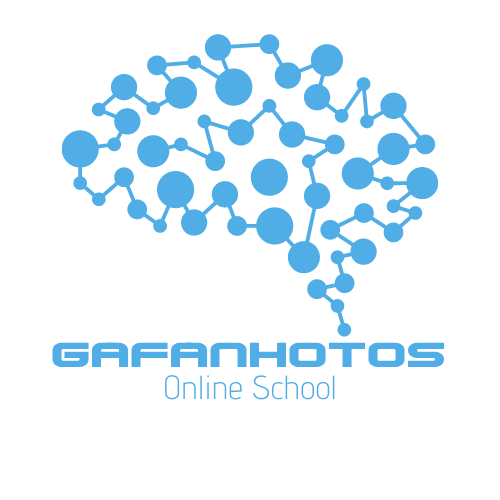
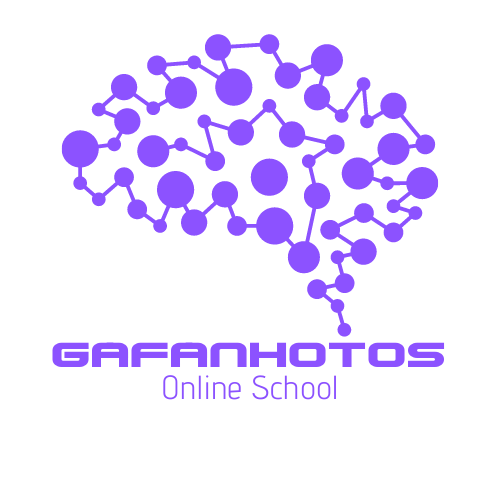
Router & Menu
Inserindo menu no header, rotas e telas de login e cadastro

Changed region(s): [[0.09, 0.06, 0.9, 0.81]]

diff --git a/frontend-school/src/app/views/home/home.component.html b/frontend-school/src/app/views/home/home.component.html
@@ -23,9 +23,9 @@
                 <div id="cursos-disponiveis">
                     <h3>Somos uma empresa focada no desenvolvimento de profissionais da área de <b>Tecnologia</b></h3>
                     <span>Oferecemos cursos das ferramentas mais requisitadas e da forma mais cômoda para você!</span>
-                    <span style="color: #51ADE5;"><b>Estude onde e quando quiser!</b></span>
+                    <span style="color: #673AB7; font-size: 20px; margin-top: 10px;"><b>Estude onde e quando quiser!</b></span>
                     <span
-                        style="margin-top: 15px; text-decoration: underline; text-decoration-color: #51ADE5; font-size: 17px;">Alguns dos nossos cursos disponíveis:</span>
+                        style="margin-top: 15px; text-decoration: underline; text-decoration-color: #673AB7; font-size: 17px;">Alguns dos nossos cursos disponíveis:</span>
                 </div>
                 <div id="imgs-container">
                     <div class="imgs" id="imgs-1">
@@ -45,7 +45,8 @@
         </div>
     </div>
     <div style="display: flex; align-items: center; justify-content: center; margin-top: 20px;">
-        <button type="button" class="btn btn-outline-info but-cadastro" style="height: 50px; width: 30%; margin: 20px 0;">Cadastre-se agora!</button>
+        <button mat-raised-button style="height: 40px; width: 30%; margin: 20px 0;" color="primary" routerLink="/signup">Cadastre-se agora!</button>
+        
     </div>
     
 </div>

diff --git a/frontend-school/src/app/components/template/header/header.component.css b/frontend-school/src/app/components/template/header/header.component.css
@@ -1,8 +1,10 @@
+@import url('https://fonts.googleapis.com/css2?family=Raleway:ital@1&display=swap');
+
 .header{
     display: flex;
     background-color: #100520;
     height: 85px;
-    border-bottom: solid 1px #52DBFF;
+    border-bottom: solid 1px #8C52FF;
     justify-content: space-between;
     align-items: center;
 }
@@ -12,8 +14,38 @@
     cursor: pointer;
 }
 
+#menu{
+    display: flex;
+    flex-direction: row;
+    align-items: center;
+    justify-content: center;
+    color: white;
+    height: 100%;
+}
+
+#menu div{
+    display: flex;
+    justify-content: center;
+    align-items: center;
+    padding: 0 15%;
+    transition: all ease 0.4s;
+    height: 100%;
+    vertical-align: middle;
+    cursor: pointer;
+}
+
+#menu div:hover{
+    background-color: #8C52FF;
+}
+
+.span-menu{
+    font-size: 19px;
+    color: white;
+    font-family: 'Raleway', sans-serif;
+}
+
 #headerspan{
-    color: #52DBFF;
+    color: #8C52FF;
     font-size: 24px;
     font-family: 'Franklin Gothic Medium', 'Arial Narrow', Arial, sans-serif,sans-serif;
 }

diff --git a/frontend-school/src/app/views/signup/signup.component.html b/frontend-school/src/app/views/signup/signup.component.html
@@ -1,0 +1,27 @@
+<div class='global'>
+    <div id="img-login">
+        <img src="/assets/login-img.jpg">
+    </div>
+    <div id="form-login">
+        <h2>Cadastre-se no mundo <b>Tech</b></h2>
+        <mat-form-field appearance="fill">
+            <mat-label>Nome completo</mat-label>
+            <input matInput type="text">
+        </mat-form-field>
+
+        <mat-form-field appearance="fill">
+            <mat-label>Email</mat-label>
+            <input matInput type="text">
+        </mat-form-field>
+        <mat-form-field appearance="fill">
+            <mat-label>Senha</mat-label>
+            <input matInput type="password">
+        </mat-form-field>
+        <mat-form-field appearance="fill">
+            <mat-label>Confirma senha</mat-label>
+            <input matInput type="password">
+        </mat-form-field>
+        <button mat-raised-button color="primary">Cadastrar</button>
+        <span>Já possui acesso? <b style="cursor: pointer;" routerLink="/login">Realize o login</b></span>
+    </div>
+</div>

diff --git a/frontend-school/src/app/app.module.ts b/frontend-school/src/app/app.module.ts
@@ -18,6 +18,7 @@ import { MatInputModule } from '@angular/material/input';
 import { MatFormFieldModule } from '@angular/material/form-field';
 import { MatButtonModule } from '@angular/material/button';
 import { MatCheckboxModule } from '@angular/material/checkbox';
+import { SignupComponent } from './views/signup/signup.component';
 
 @NgModule({
   declarations: [
@@ -26,7 +27,8 @@ import { MatCheckboxModule } from '@angular/material/checkbox';
     FooterComponent,
     NavComponent,
     HomeComponent,
-    LoginComponent
+    LoginComponent,
+    SignupComponent
   ],
   imports: [
     BrowserModule,

diff --git a/frontend-school/src/app/components/template/header/header.component.html b/frontend-school/src/app/components/template/header/header.component.html
@@ -1,7 +1,9 @@
 <mat-toolbar class="header">
     <img src="/assets/Gafanhotos School.png" class="headerimg" routerLink="/">
-    <div>
-
+    <div id="menu">
+        <div><span class="span-menu">Cursos</span></div>
+        <div><span class="span-menu">Quem somos</span></div>
+        <div><span class="span-menu">Contato</span></div>
     </div>
-    <button type="button" class="btn btn-outline-info" routerLink="/login">Login/Cadastro</button>
+    <button mat-raised-button color="primary" routerLink="/login">Login/cadastro</button>
 </mat-toolbar>

diff --git a/frontend-school/src/app/app-routing.module.ts b/frontend-school/src/app/app-routing.module.ts
@@ -2,6 +2,7 @@ import { NgModule } from '@angular/core';
 import { RouterModule, Routes } from '@angular/router';
 import { HomeComponent } from './views/home/home.component';
 import { LoginComponent } from './views/login/login.component';
+import { SignupComponent } from './views/signup/signup.component';
 
 const routes: Routes = [{
   path:"",
@@ -9,6 +10,9 @@ const routes: Routes = [{
 },{
   path:"login",
   component: LoginComponent,
+},{
+  path:"signup",
+  component: SignupComponent
 }
 ];
 

diff --git a/frontend-school/src/app/views/login/login.component.html b/frontend-school/src/app/views/login/login.component.html
@@ -15,6 +15,6 @@
         </mat-form-field>
         <span style=" margin-bottom: 17px; cursor: pointer;">Recuperar senha</span>
         <button mat-raised-button color="primary">Entrar</button>
-        <span>Sem acesso? <b style="cursor: pointer;">Cadastre-se agora!</b></span>
+        <span>Sem acesso? <b style="cursor: pointer;" routerLink="/signup">Cadastre-se agora!</b></span>
     </div>
 </div>

diff --git a/frontend-school/src/app/views/signup/signup.component.ts b/frontend-school/src/app/views/signup/signup.component.ts
@@ -1,0 +1,15 @@
+import { Component, OnInit } from '@angular/core';
+
+@Component({
+  selector: 'app-signup',
+  templateUrl: './signup.component.html',
+  styleUrls: ['./signup.component.css']
+})
+export class SignupComponent implements OnInit {
+
+  constructor() { }
+
+  ngOnInit(): void {
+  }
+
+}

diff --git a/frontend-school/src/app/views/home/home.component.css b/frontend-school/src/app/views/home/home.component.css
@@ -26,7 +26,7 @@
     font-family: sans-serif;
     margin-top: 30px;
     margin-bottom: 30px;
-    color: #51ADE5;
+    color: #673AB7;
     font-size: 60px;
 }
 

diff --git a/frontend-school/src/app/views/signup/signup.component.css b/frontend-school/src/app/views/signup/signup.component.css
@@ -32,7 +32,7 @@
 }
 
 #form-login mat-form-field{
-    margin: 10px 0;
+    margin:0px 0;
 }
 
 #form-login span{
